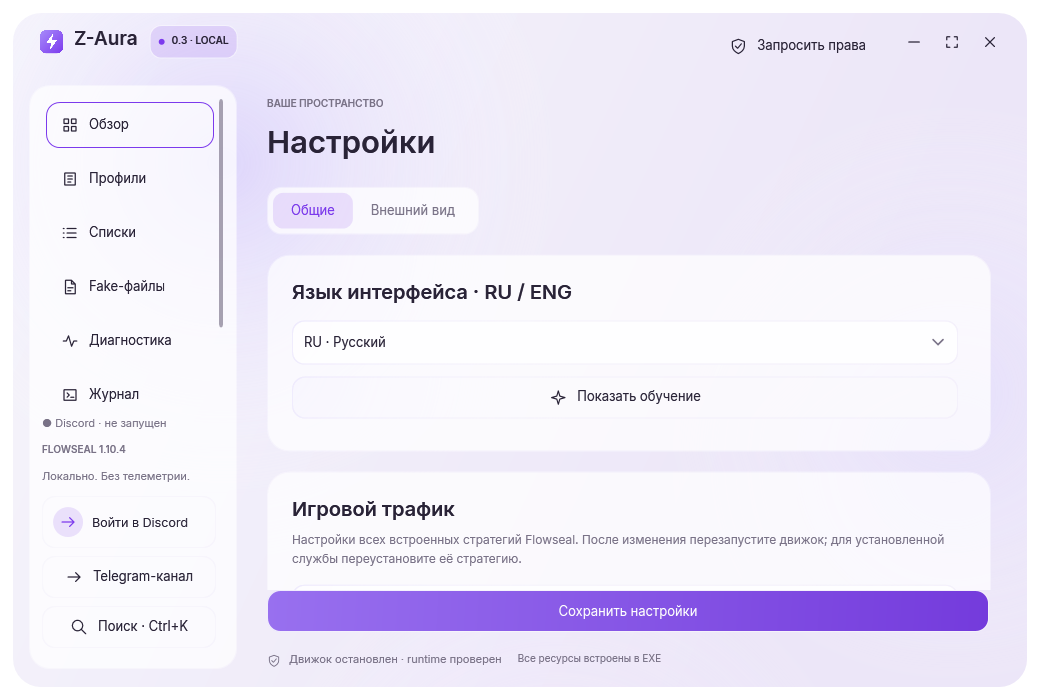
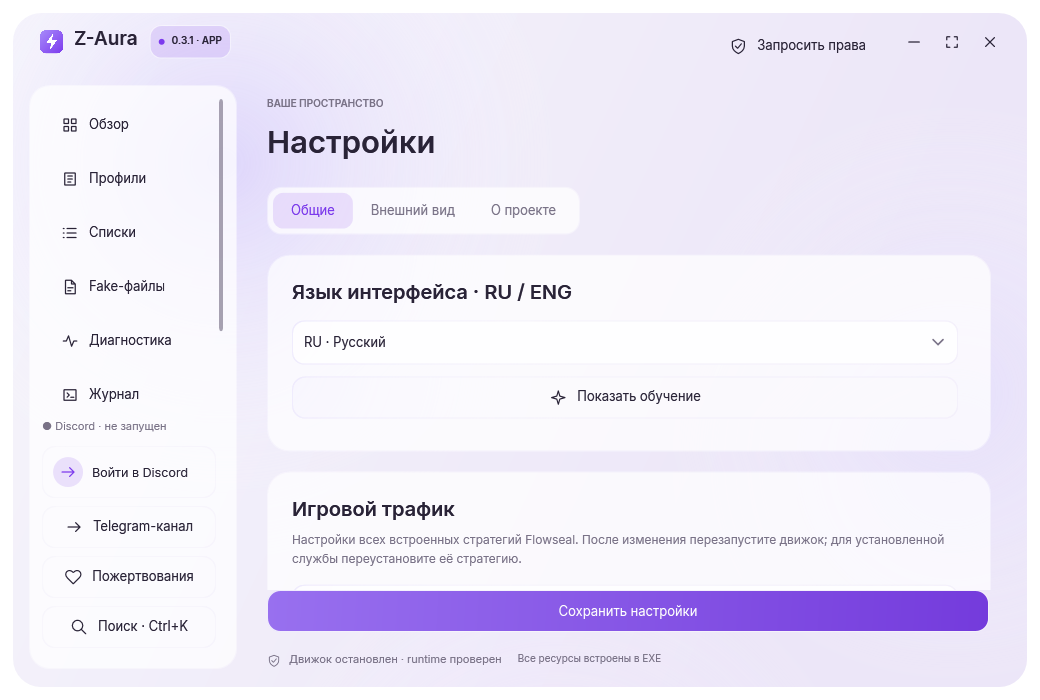
Add files via upload

diff --git a/index.html b/index.html
@@ -98,7 +98,7 @@ h2{font-size:clamp(30px,4vw,44px);font-weight:800;letter-spacing:-.02em;line-hei
 /* ---------- Навигация ---------- */
 .nav-outer{position:fixed;top:14px;left:0;right:0;z-index:100;padding:0 20px}
 .nav{max-width:1120px;margin:0 auto;border-radius:18px;padding:10px 12px 10px 20px;display:flex;align-items:center;gap:8px}
-.logo{display:flex;align-items:center;gap:11px;font-weight:800;font-size:18px;letter-spacing:-.01em;text-decoration:none;color:var(--text)}
+.logo{display:flex;align-items:center;gap:11px;font-weight:800;font-size:18px;letter-spacing:-.01em;text-decoration:none;color:var(--text);white-space:nowrap;flex-shrink:0}
 .logo-mark{width:34px;height:34px;border-radius:11px;background:linear-gradient(135deg,#8B5CF6,#5B21B6);display:grid;place-items:center;box-shadow:0 4px 14px var(--accent-glow)}
 .logo-mark svg{width:18px;height:18px;stroke:#fff;stroke-width:2;stroke-linecap:round;fill:none}
 .nav-links{display:flex;gap:4px;margin-left:16px;margin-right:auto}
@@ -108,7 +108,8 @@ h2{font-size:clamp(30px,4vw,44px);font-weight:800;letter-spacing:-.02em;line-hei
 }
 .nav-links a:hover{color:var(--accent-deep);background:rgba(124,58,237,.09)}
 .nav-links a.active{color:var(--accent-deep);background:rgba(124,58,237,.13);box-shadow:inset 0 0 0 1px rgba(124,58,237,.16)}
-.btn-nav{padding:11px 22px;font-size:14.5px;border-radius:12px}
+.btn-nav{padding:11px 22px;font-size:14.5px;border-radius:12px;margin-left:auto;flex-shrink:0}
+@media(max-width:1100px){.nav-links a{display:none}.nav-links a[href="#donate"],.nav-links a[href="https://t.me/zaurafork"]{display:block}}
 
 /* ---------- Hero ---------- */
 .hero{padding:190px 0 100px;text-align:center}
@@ -235,6 +236,16 @@ footer{padding:56px 0 44px;border-top:1px solid rgba(124,58,237,.14)}
 .switch[aria-checked="true"]{background:var(--accent)}
 .switch[aria-checked="true"]::after{transform:translateX(20px)}
 .copy{font-size:12.5px;color:var(--muted);margin-top:22px}
+/* ---------- Support: an optional gift, never a paywall ---------- */
+.donate-panel{display:grid;grid-template-columns:1.1fr 1fr;gap:40px;align-items:center;border-radius:32px;padding:clamp(28px,5vw,56px);overflow:hidden;background:linear-gradient(135deg,rgba(255,255,255,.72),rgba(227,214,251,.7))}
+.donate-panel p{font-size:15px;line-height:1.75;color:var(--muted);margin-top:16px}
+.donate-card{position:relative;padding:28px;border-radius:24px;background:linear-gradient(135deg,#352044,#5b3290);color:#fff;box-shadow:0 20px 50px rgba(77,36,133,.2);overflow:hidden}
+.donate-card::before{content:"";position:absolute;width:240px;height:240px;right:-85px;top:-100px;border:1px solid rgba(216,192,255,.18);border-radius:50%;box-shadow:0 0 0 24px rgba(216,192,255,.04),0 0 0 55px rgba(216,192,255,.03);pointer-events:none}
+.donate-card .bank{font-size:13px;letter-spacing:.06em;color:#ddccf5;position:relative}
+.donate-card .card-number{display:block;position:relative;margin:28px 0 26px;font-size:clamp(18px,2.3vw,28px);letter-spacing:.08em;font-weight:700;white-space:nowrap;user-select:all}
+.donate-card .btn{position:relative;font-size:13px;padding:11px 16px;background:rgba(255,255,255,.12);border:1px solid rgba(255,255,255,.2);color:#fff}
+.donate-status{min-height:24px;font-size:12px!important;color:var(--accent-deep)!important}
+@media(max-width:800px){.donate-panel{grid-template-columns:1fr;gap:24px}.donate-card .card-number{font-size:clamp(17px,4.5vw,27px)}}
 
 /* ---------- Reveal-анимации ---------- */
 .reveal{opacity:0;transform:translateY(26px);transition:opacity .7s var(--ease),transform .7s var(--spring)}
@@ -282,6 +293,7 @@ html.reduce-motion .btn,html.reduce-motion .card,html.reduce-motion .chip,html.r
       <a href="#how">Как работает</a>
       <a href="#interface">Интерфейс</a>
       <a href="#privacy">Приватность</a>
+      <a href="#donate">Пожертвования</a>
       <a href="https://t.me/zaurafork" target="_blank" rel="noopener noreferrer">Telegram</a>
     </div>
     <a class="btn btn-primary btn-nav" href="https://github.com/dopebeanie/Z-Aura/releases/latest/download/Z-Aura.exe" title="Скачать Z-Aura.exe из последнего опубликованного GitHub Release">
@@ -296,7 +308,7 @@ html.reduce-motion .btn,html.reduce-motion .card,html.reduce-motion .chip,html.r
   <div class="wrap">
     <span class="eyebrow reveal">
       <svg class="icon" style="width:15px;height:15px" viewBox="0 0 24 24"><path d="m12.83 2.18a2 2 0 0 0-1.66 0L2.6 6.08a1 1 0 0 0 0 1.83l8.58 3.91a2 2 0 0 0 1.66 0l8.58-3.9a1 1 0 0 0 0-1.83Z"/><path d="m6.08 9.5-3.5 1.6a1 1 0 0 0 0 1.81l8.6 3.91a2 2 0 0 0 1.65 0l8.58-3.9a1 1 0 0 0 0-1.83l-3.5-1.59"/></svg>
-      Интерфейс для zapret · портативная сборка
+      Z-Aura 0.3.1 · тестовый кандидат
     </span>
     <h1 class="reveal">Полный контроль над <span class="grad">zapret</span> — без единого bat-файла</h1>
     <p class="lead reveal">
@@ -324,10 +336,10 @@ html.reduce-motion .btn,html.reduce-motion .card,html.reduce-motion .chip,html.r
         <svg class="icon" viewBox="0 0 24 24"><path d="M20 6 9 17l-5-5"/></svg>
       </span>
       <div>
-        <div class="st-title">Движок запущен</div>
-        <div class="st-sub">Профиль «Discord + YouTube» · winws работает</div>
+        <div class="st-title">Z-Aura 0.3.1 · Update</div>
+        <div class="st-sub">Обновления приложения · Discord Return · визуальные детали</div>
       </div>
-      <span class="mini-pill">1.10.4</span>
+      <span class="mini-pill">0.3.1 · candidate</span>
     </div>
   </div>
 </section>
@@ -341,6 +353,12 @@ html.reduce-motion .btn,html.reduce-motion .card,html.reduce-motion .chip,html.r
       <p>Пакетный движок upstream остался нетронутым. Новое в тестовом кандидате: независимый Telegram Proxy и Presence с Alt + Zapret + Proxy. Анонсы — в нашем Telegram-канале.</p>
     </div>
     <div class="grid">
+      <div class="card glass reveal">
+        <span class="ico"><svg class="icon" viewBox="0 0 24 24"><path d="M12 3v13m-5-5 5 5 5-5M4 16v5h16v-5"/></svg></span>
+        <h3>Обновления самого Z-Aura</h3>
+        <p>Проверка стабильной версии на GitHub, добровольная автозагрузка и проверка SHA-256. Установка — после подтверждения перезапуска, с резервным EXE. Runtime Flowseal не обновляется.</p>
+        <span class="tag">0.3.1 · тестовый кандидат</span>
+      </div>
       <div class="card glass reveal">
         <span class="ico"><svg class="icon" viewBox="0 0 24 24"><path d="m3 11 18-8-4 18-6-6-4 3 1-5Z"/></svg></span>
         <h3>Telegram Proxy внутри</h3>
@@ -507,14 +525,14 @@ html.reduce-motion .btn,html.reduce-motion .card,html.reduce-motion .chip,html.r
     <div class="section-head reveal">
       <span class="eyebrow">Приватность</span>
       <h2 style="margin-top:18px">Ваши настройки — на вашем устройстве</h2>
-      <p>Без аккаунтов Z-Aura и автоматической загрузки профилей/журналов разработчику. Presence передаётся Discord; включённый прокси подключается к Telegram и, только по выбору пользователя, CF-relay. Внешние ссылки открываются по вашему нажатию.</p>
+      <p>Без аккаунтов Z-Aura и автоматической отправки профилей/журналов разработчику. Presence и добровольный OAuth обращаются к Discord; прокси — к Telegram и выбранным relay. Проверка обновлений обращается к GitHub (включая обычные данные соединения и IP); её можно отключить. Внешние ссылки открываются по нажатию.</p>
     </div>
     <div class="priv">
       <div class="card glass reveal">
         <span class="ico"><svg class="icon" viewBox="0 0 24 24"><rect x="3" y="11" width="18" height="10" rx="2"/><path d="M7 11V7a5 5 0 0 1 9.9-1"/></svg></span>
         <div>
-          <h3>Без аккаунтов</h3>
-          <p>Регистрация не нужна и невозможна: приложение не имеет ни логина, ни серверной части.</p>
+          <h3>Без обязательного аккаунта</h3>
+          <p>Все возможности доступны без входа. Необязательный Discord OAuth запрашивает только identify; профиль и токен остаются в памяти, не отправляются в Presence.</p>
         </div>
       </div>
       <div class="card glass reveal">
@@ -562,6 +580,26 @@ html.reduce-motion .btn,html.reduce-motion .card,html.reduce-motion .chip,html.r
 </section>
 
 <!-- ================= FOOTER ================= -->
+<section id="donate">
+  <div class="wrap">
+    <div class="donate-panel glass reveal">
+      <div>
+        <span class="eyebrow">Пожертвования</span>
+        <h2 style="margin-top:20px">Маленький вклад.<br>Больше пространства для идей.</h2>
+        <p>Если Z-Aura вам помогает, поддержите его развитие добровольным переводом. Все функции остаются бесплатными — донат ничего не разблокирует.</p>
+        <p style="font-size:12px">Перевод выполняется в вашем банковском приложении. Сверьте реквизиты и получателя перед отправкой. Сайт не принимает платежи, не запрашивает CVV, PIN или SMS-коды.</p>
+      </div>
+      <div>
+        <div class="donate-card">
+          <span class="bank">СберБанк · поддержка Z-Aura</span>
+          <span class="card-number" id="donation-number">2202 2085 9236 5168</span>
+          <button type="button" class="btn" id="copy-donation"><svg class="icon" viewBox="0 0 24 24"><path d="M8 8h12v13H8zM16 8V3H3v13h5"/></svg>Скопировать номер карты</button>
+        </div>
+        <p class="donate-status" id="donation-status" role="status" aria-live="polite"></p>
+      </div>
+    </div>
+  </div>
+</section>
 <footer>
   <div class="wrap">
     <div class="foot">
@@ -575,6 +613,7 @@ html.reduce-motion .btn,html.reduce-motion .card,html.reduce-motion .chip,html.r
         <a href="https://github.com/dopebeanie/Z-Aura" id="gh-link">GitHub</a>
         <a href="https://github.com/dopebeanie/Z-Aura/releases" id="rel-link">Релизы</a>
         <a href="https://github.com/dopebeanie/Z-Aura/releases" id="changelog-link">Changelog</a>
+        <a href="#donate">Пожертвования</a>
         <a href="https://t.me/zaurafork" target="_blank" rel="noopener noreferrer">Telegram · @zaurafork</a>
         <a href="https://github.com/Flowseal/zapret-discord-youtube" rel="noopener">Upstream</a>
       </nav>
@@ -590,6 +629,18 @@ html.reduce-motion .btn,html.reduce-motion .card,html.reduce-motion .chip,html.r
 
 <script>
 (function(){
+  var copyDonation = document.getElementById('copy-donation');
+  copyDonation.addEventListener('click', async function(){
+    var status = document.getElementById('donation-status');
+    try {
+      await navigator.clipboard.writeText(document.getElementById('donation-number').textContent.trim());
+      status.textContent = 'Номер карты скопирован. Проверьте получателя в банковском приложении.';
+    } catch (_) {
+      var range = document.createRange(); range.selectNodeContents(document.getElementById('donation-number'));
+      var selection = window.getSelection(); selection.removeAllRanges(); selection.addRange(range);
+      status.textContent = 'Номер выделен. Скопируйте его вручную.';
+    }
+  });
   // Stagger-появление блоков
   var reveals = document.querySelectorAll('.reveal');
   if ('IntersectionObserver' in window) {
